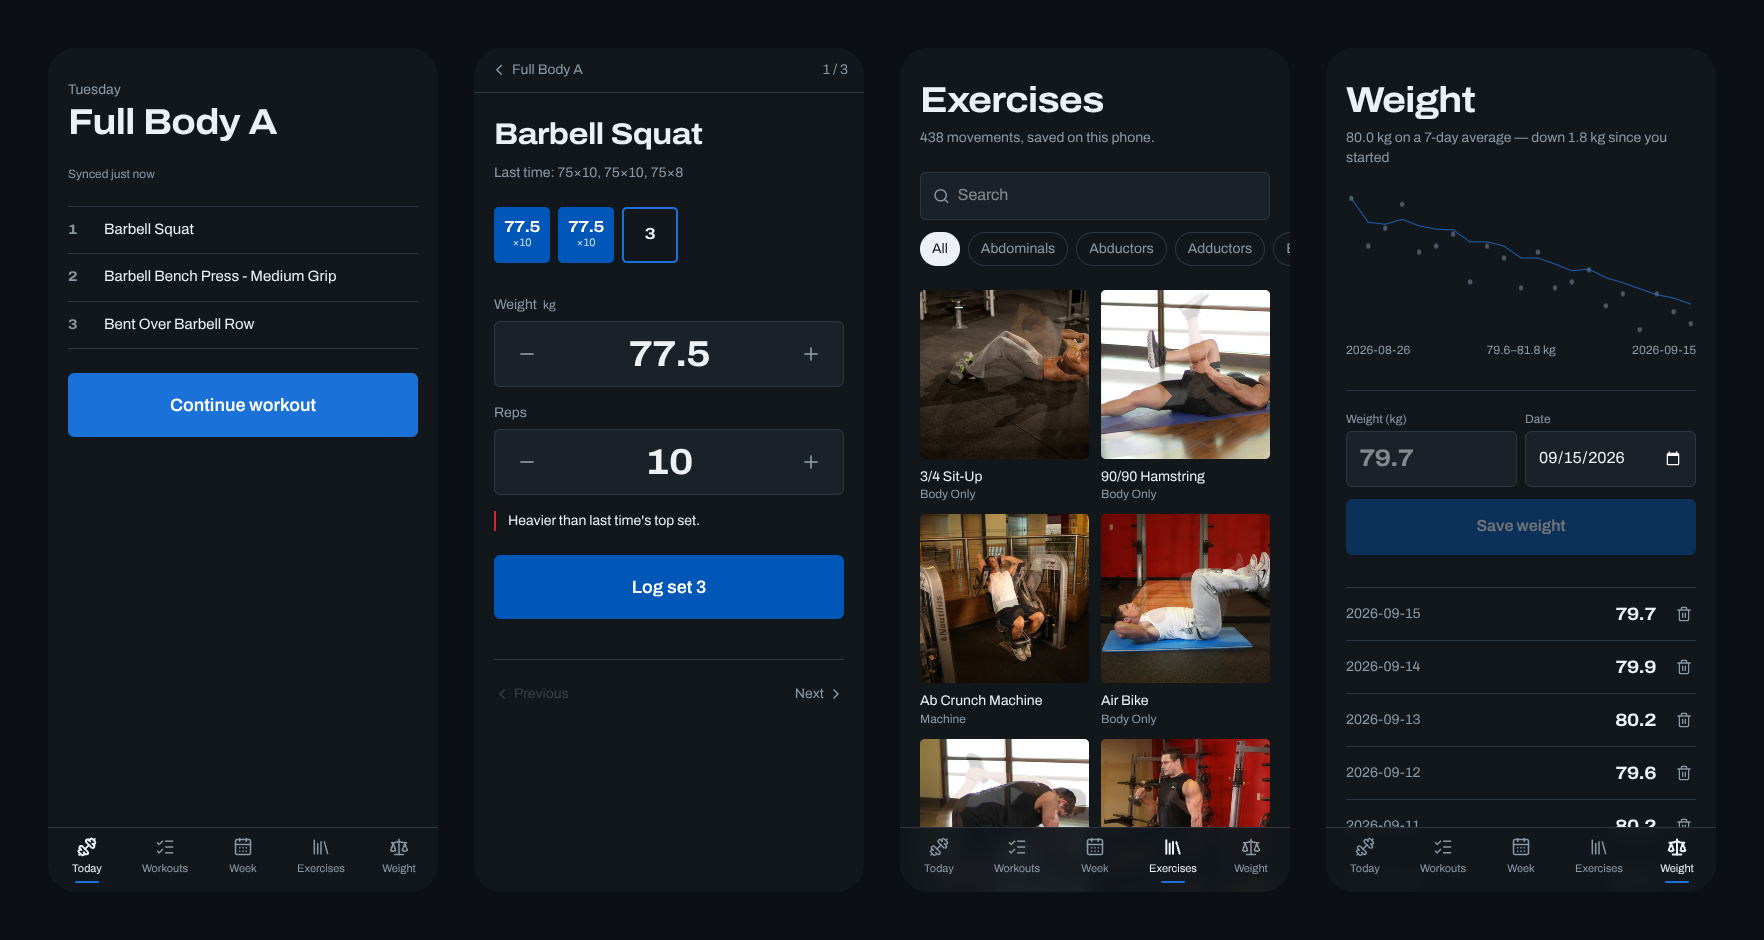
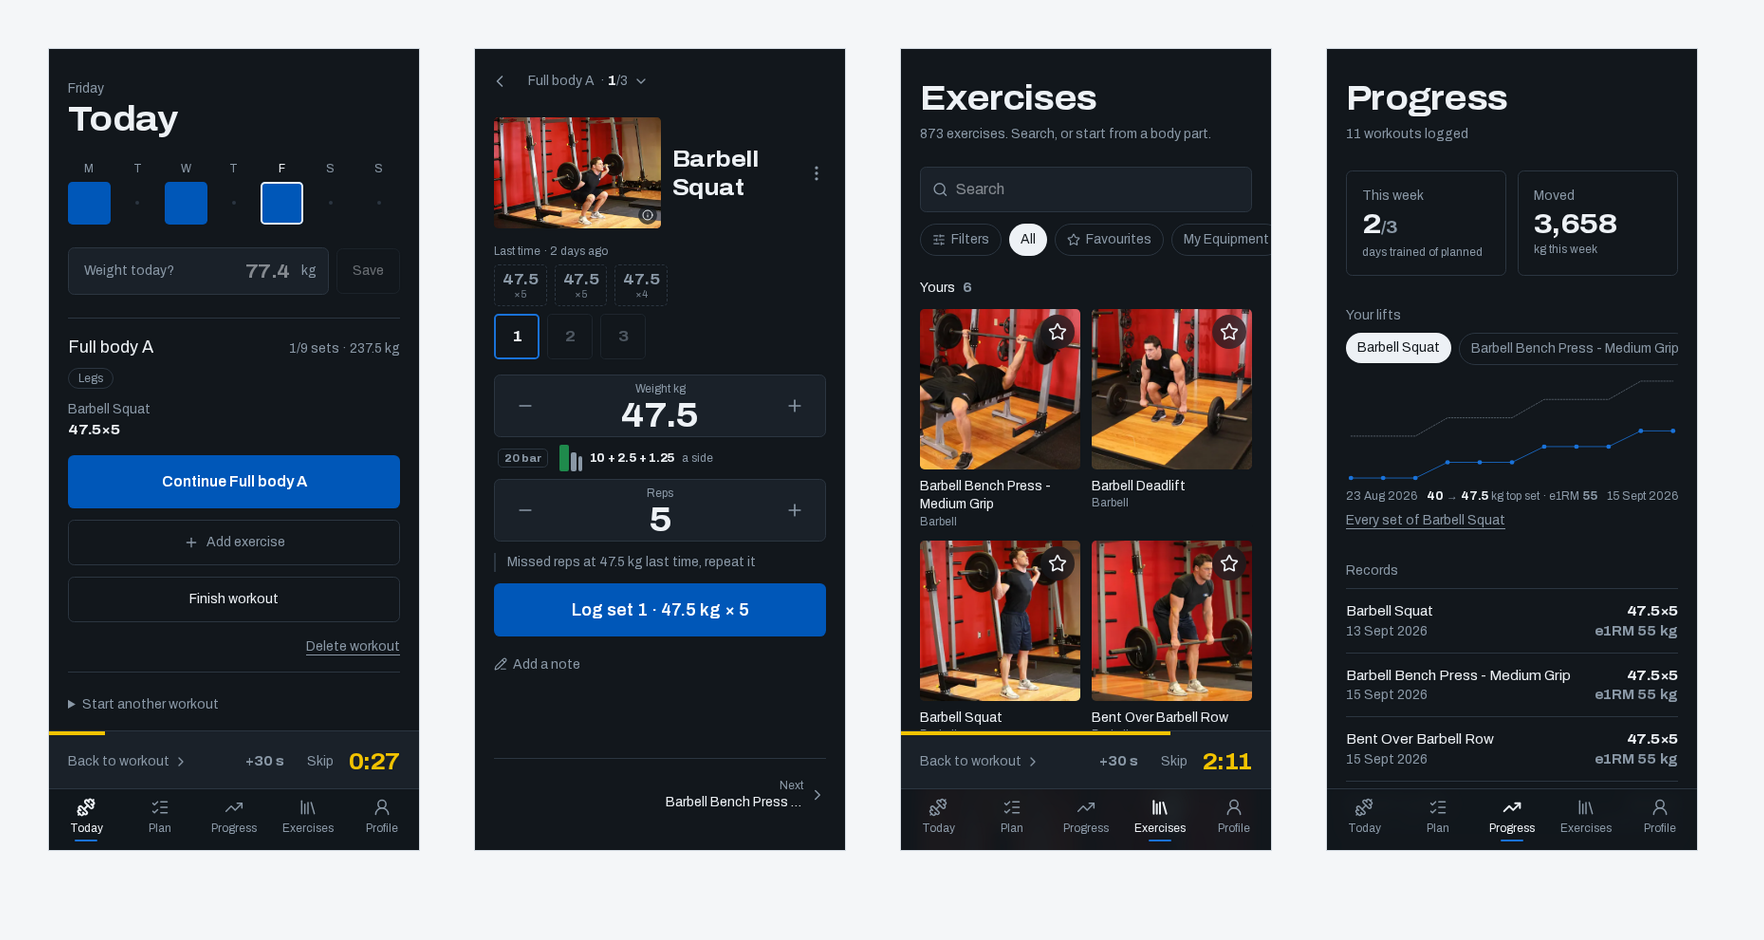
docs: fix the library's copy and retake every screenshot - "438 movements, saved on this phone" was engineering speaking; the line now says what to do: 873 exercises, search or start from a body part. The screenshots in docs/screenshots and the README hero showed the old five-tab bar with Weight and

diff --git a/app/exercises/page.tsx b/app/exercises/page.tsx
@@ -127,8 +127,8 @@ export default function ExercisesPage() {
         <h1 className="figure text-4xl">Exercises</h1>
         <p className="mt-2 text-sm text-ink-dim">
           {exercises.length
-            ? `${exercises.length} movements, saved on this phone.`
-            : 'Syncing the library…'}
+            ? `${exercises.length} exercises. Search, or start from a body part.`
+            : 'Fetching the library…'}
         </p>
 
         <div className="mt-6 flex h-12 items-center gap-2 rounded-md border border-line bg-surface px-3">

diff --git a/README.md b/README.md
@@ -6,7 +6,7 @@
 Build your workouts, put them on the days you train, then log the weight and reps you actually
 did — **with or without signal**. Made for a gym in a basement.
 
-![gymlog: today's workout, logging a set, the exercise library and bodyweight trend](docs/screenshots/gymlog.png)
+![gymlog: today's workout, logging a set with the plates per side, the exercise library by body part, and progress](docs/screenshots/gymlog.png)
 
 The CI badge is green only when a commit's **unit tests pass, it builds, and that same commit
 deployed to production** — the workflow waits for Vercel's verdict and smoke-tests the live site.
@@ -16,13 +16,18 @@ deployed to production** — the workflow waits for Vercel's verdict and smoke-t
 - **Workouts** — an ordered list of exercises with sets, reps and rest.
 - **Premade programmes** — pick a ready-made week (full body, upper/lower, dumbbells only), fitted
   to the equipment you have: exercises you can't do are swapped for ones you can.
-- **Your week** — put a workout on each training day. Moving up a stage starts a new programme;
-  everything you logged before stays exactly as it was.
-- **The gym screen** — one exercise at a time, big thumb-sized steppers, prefilled with what you
-  just lifted or what you did last time, a rest timer that beeps, and the screen kept awake.
-- **Exercise library** — 859 movements, each with a start and end photo that fade into one
-  another to show the movement.
-- **Bodyweight** — one tap a day, charted as a 7-day average because single readings are noise.
+- **Your week** — the Plan tab opens on the week, a cell per day; tap one to put a workout on it.
+  Moving up a stage starts a new programme; everything you logged before stays exactly as it was.
+- **The gym screen** — one exercise at a time, last time's sets as a ghost row above today's,
+  steppers opened on the next step of the progression with the reason under them, the plates
+  to load per side, a rest that takes the screen and asks how the set felt, and the screen
+  kept awake.
+- **Exercise library** — 873 movements, filed by body part, each with a start and end photo that
+  fade into one another to show the movement.
+- **Progress** — this week against the plan, each main lift's top set and e1RM over time, and
+  records.
+- **Bodyweight** — one field on Today each morning, charted as a 7-day average because single
+  readings are noise.
 - **Accounts** — every user sees only their own data; the exercise library is shared.
 - **API for LLMs** — create a token under Profile → API access and let ChatGPT, Claude or a script
   read your workouts, history and bodyweight; a read and write token can also rework your workouts

diff --git a/CHANGELOG.md b/CHANGELOG.md
@@ -1,5 +1,13 @@
 # Changelog
 
+## 2026-09-18 05:20
+
+- **Copy and screenshots.** The library no longer says "438 movements, saved on this phone";
+  it says what to do: "873 exercises. Search, or start from a body part." The screenshots in
+  `docs/screenshots` and the README hero showed a five-tab bar with Weight and a "Synced just
+  now" line; they are retaken from a production build of this branch — Today, the session
+  screen, the rest screen, the workout sheet, Exercises, Plan, Progress and Weight.
+
 ## 2026-09-18 04:55
 
 - **History is Progress.** The tab is now Progress and opens on the story rather than the log:
